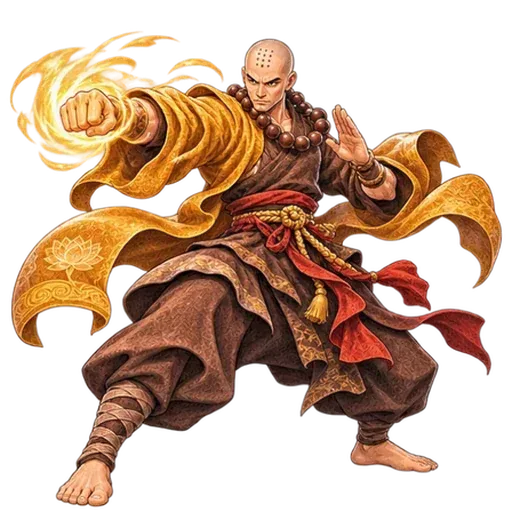
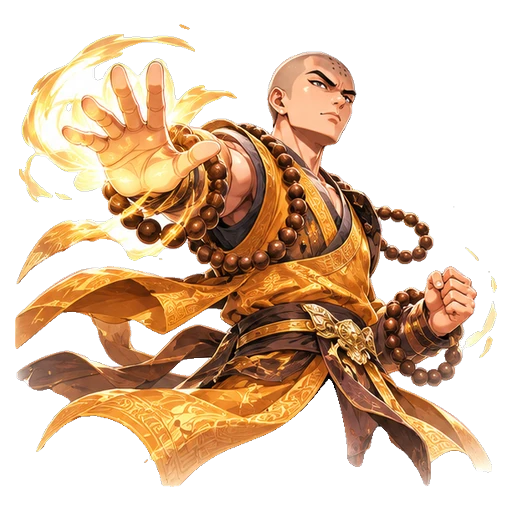
Trang chính: cập nhật
Claude-Session: https://claude.ai/code/session_01Lr2WGAT2DCPraFATEfHpyN

diff --git a/index.html b/index.html
@@ -5,15 +5,15 @@
 <meta name="viewport" content="width=device-width, initial-scale=1, maximum-scale=1">
 <title>Linh Thú Tam Địa — Bản Nâng Cấp WebGL GPU</title>
 <link rel="icon" href="data:,">
-<link rel="stylesheet" href="css/00-fonts.css?v=gpu39">
-<link rel="stylesheet" href="css/01-arena-cards.css?v=gpu39">
-<link rel="stylesheet" href="css/02-board-vfx.css?v=gpu39">
-<link rel="stylesheet" href="css/03-lobby-meta.css?v=gpu39">
-<link rel="stylesheet" href="css/04-vfx-gpu.css?v=gpu39">
-<link rel="stylesheet" href="css/05-mo-bai.css?v=gpu39">
-<link rel="stylesheet" href="css/06-cai-dat.css?v=gpu39">
-<link rel="stylesheet" href="css/07-nen-the.css?v=gpu39">
-<link rel="stylesheet" href="css/08-dau-hieu.css?v=gpu39">
+<link rel="stylesheet" href="css/00-fonts.css?v=gpu40">
+<link rel="stylesheet" href="css/01-arena-cards.css?v=gpu40">
+<link rel="stylesheet" href="css/02-board-vfx.css?v=gpu40">
+<link rel="stylesheet" href="css/03-lobby-meta.css?v=gpu40">
+<link rel="stylesheet" href="css/04-vfx-gpu.css?v=gpu40">
+<link rel="stylesheet" href="css/05-mo-bai.css?v=gpu40">
+<link rel="stylesheet" href="css/06-cai-dat.css?v=gpu40">
+<link rel="stylesheet" href="css/07-nen-the.css?v=gpu40">
+<link rel="stylesheet" href="css/08-dau-hieu.css?v=gpu40">
 </head>
 <body>
 <div id="ldr12" role="status" aria-live="polite"><div class="lb12"><b>LINH THÚ TAM ĐỊA</b><div class="bar12"><i id="ldrBar"></i></div><span id="ldrTxt">Đang tải hình… 0%</span><button type="button" id="ldrSkip" hidden>Vào luôn</button></div></div>
@@ -320,23 +320,23 @@
 </div></div>
 
 
-<script src="js/11-nen-the.js?v=gpu39"></script>
-<script src="js/01-engine.js?v=gpu39"></script>
-<script src="js/03-data-store.js?v=gpu39"></script>
-<script src="js/04a-sfx-fam.js?v=gpu39"></script>
-<script src="js/04-audio.js?v=gpu39"></script>
-<script src="js/05-vfx-core.js?v=gpu39"></script>
-<script src="js/06-ui-match.js?v=gpu39"></script>
-<script src="js/07-meta-modes.js?v=gpu39"></script>
-<script src="js/08-vfx-webgl.js?v=gpu39"></script>
-<script src="js/09-card-choreo.js?v=gpu39"></script>
-<script src="js/10-online-cf.js?v=gpu39"></script>
-<script src="js/12-dau-hieu.js?v=gpu39"></script>
+<script src="js/11-nen-the.js?v=gpu40"></script>
+<script src="js/01-engine.js?v=gpu40"></script>
+<script src="js/03-data-store.js?v=gpu40"></script>
+<script src="js/04a-sfx-fam.js?v=gpu40"></script>
+<script src="js/04-audio.js?v=gpu40"></script>
+<script src="js/05-vfx-core.js?v=gpu40"></script>
+<script src="js/06-ui-match.js?v=gpu40"></script>
+<script src="js/07-meta-modes.js?v=gpu40"></script>
+<script src="js/08-vfx-webgl.js?v=gpu40"></script>
+<script src="js/09-card-choreo.js?v=gpu40"></script>
+<script src="js/10-online-cf.js?v=gpu40"></script>
+<script src="js/12-dau-hieu.js?v=gpu40"></script>
 <script>
 /* gpu22: service worker (chỉ khi chạy qua http/https, không đăng ký trong vỏ Capacitor/APK vì ảnh đã nằm sẵn trong app) */
 (function(){var C=window.Capacitor,nat=C&&C.isNativePlatform&&C.isNativePlatform();
 if(!("serviceWorker" in navigator)||!/^https?:$/.test(location.protocol)||nat)return;
-var SWU="sw.js?v=gpu39",V=SWU.split("v=")[1];
+var SWU="sw.js?v=gpu40",V=SWU.split("v=")[1];
 /* gpu35: trang mở lâu (ứng dụng để nền rồi mở lại) vẫn nhận bản mới: khi quay lại trang (tối đa 1 lần/10 phút) đọc index.html mới nhất,
    thấy số phiên bản khác -> đang ở sảnh thì tải lại ngay (1 lần cho mỗi bản), đang chơi thì hiện nút "Có bản mới — chạm để cập nhật". */
 var lastChk=0;function chk(){var now=Date.now();if(now-lastChk<600000||!navigator.onLine)return;lastChk=now;

diff --git a/js/05-vfx-core.js b/js/05-vfx-core.js
@@ -1555,7 +1555,9 @@ document.addEventListener("error",e=>{const t=e.target;if(!t||t.tagName!=="IMG")
 /* gpu22: mỗi thẻ có file riêng: img/ct/<id>.webp (thumbnail 256) và img/c/<id>.webp (đầy đủ 512). Khoá "id" = thumbnail, "id@f" = bản đầy đủ.
    gpu23: bỏ đường dự phòng cắt sprite tờ img/s (thư mục này không còn trong www/, mọi id trong IMGS.c đều có img/c + img/ct). */
 const CV12="gpu22";
-function cardUrl12(id,f){return new URL("img/"+(f?"c":"ct")+"/"+id+".webp?v="+CV12,document.baseURI||location.href).href;}
+/* ảnh thẻ vẽ lại: phiên bản riêng theo thẻ để máy người chơi tải ảnh mới mà không phải tải lại toàn bộ */
+const CV12X={};for(const k of "nguyetthach thietgiap yeutinhluc thuantuong nguumamienvien lucsi taythep linhgacmay thepnhan yeutinhcam bachho quyensu naomay khoithit phuthan".split(" "))CV12X[k]="a40";
+function cardUrl12(id,f){return new URL("img/"+(f?"c":"ct")+"/"+id+".webp?v="+(CV12X[id]||CV12),document.baseURI||location.href).href;}
 function spKey12(k){const f=k.slice(-2)==="@f";return {f:f,id:f?k.slice(0,-2):k};}
 function spLoad(k){if(SP.c[k]||SP.k[k])return;const q=spKey12(k);if(!IMGS.c[q.id])return;
   SP.k[k]=1;const cu=cardUrl12(q.id,q.f);
